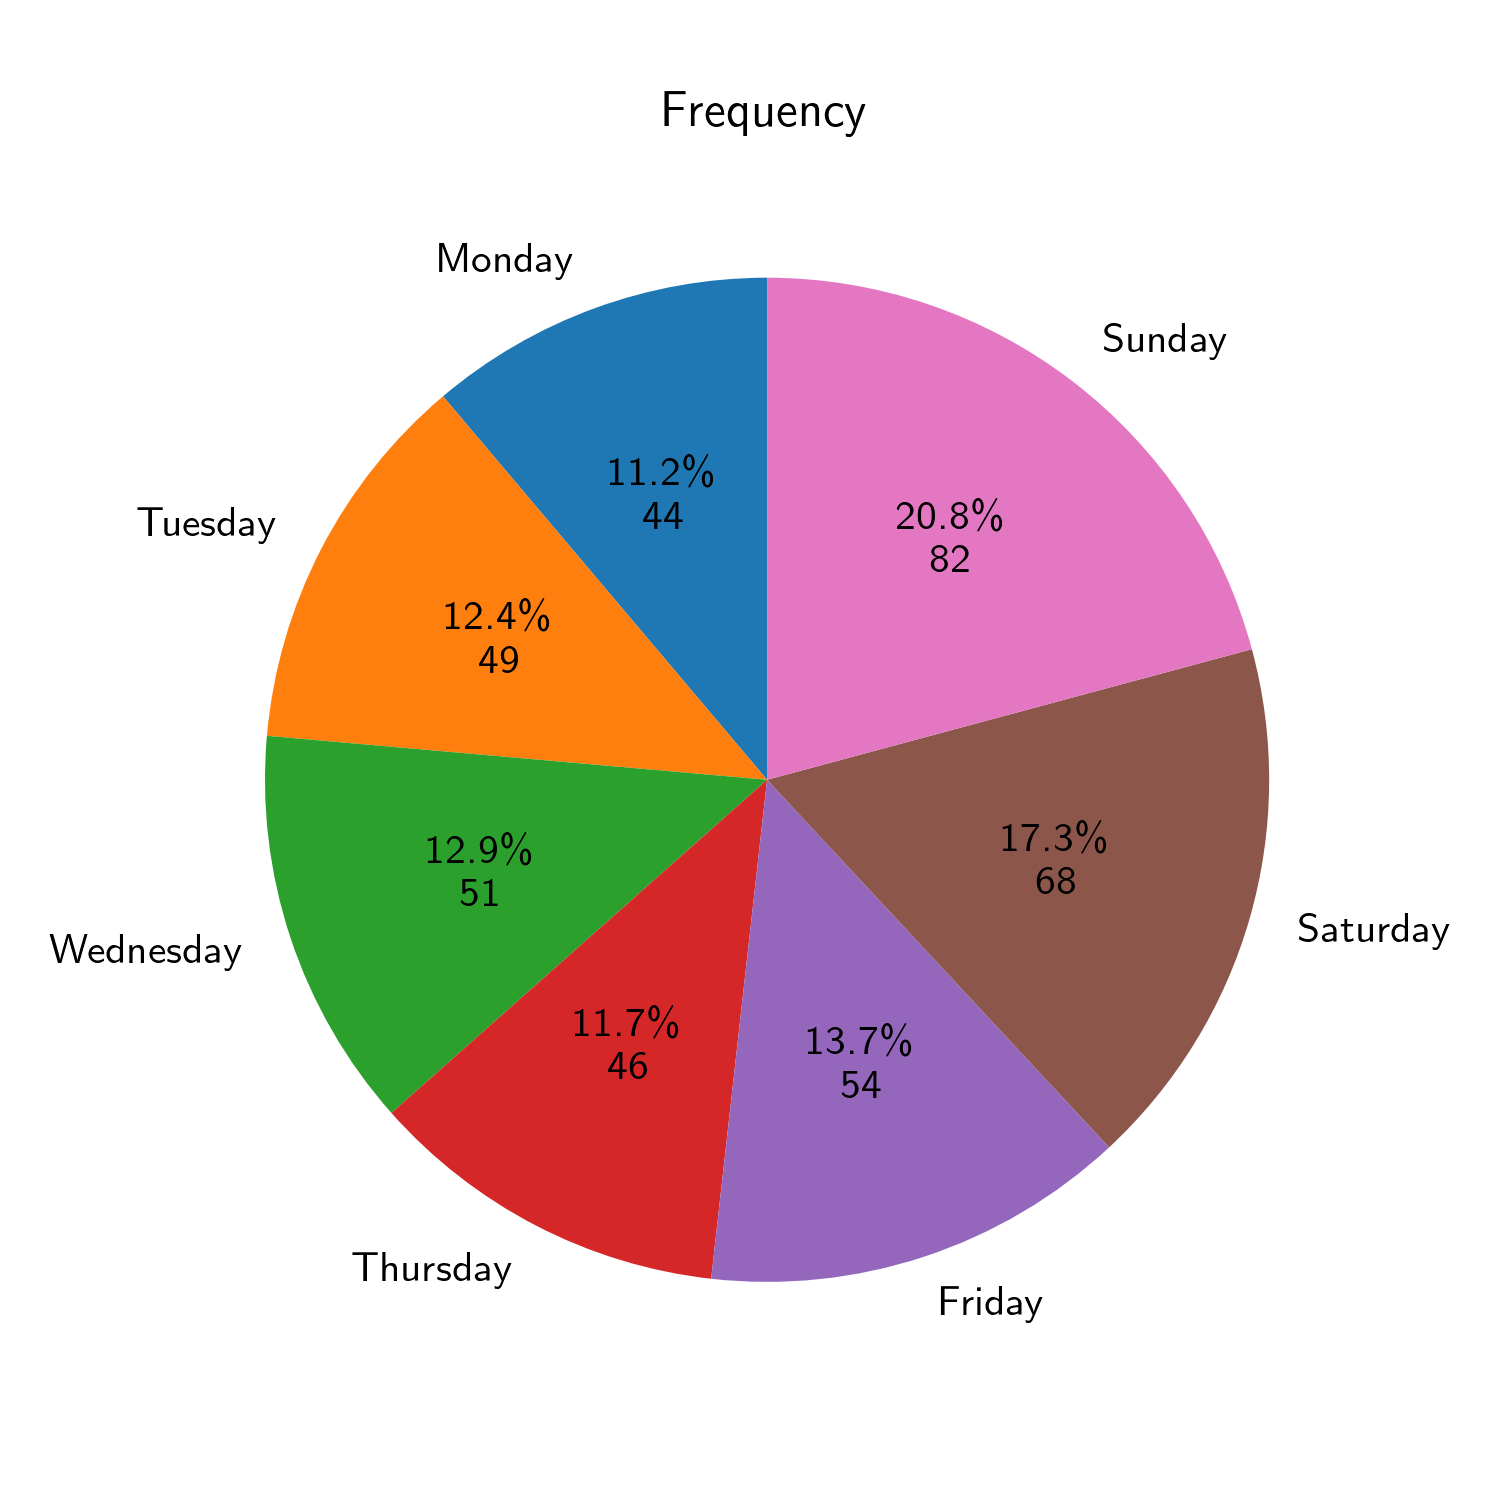
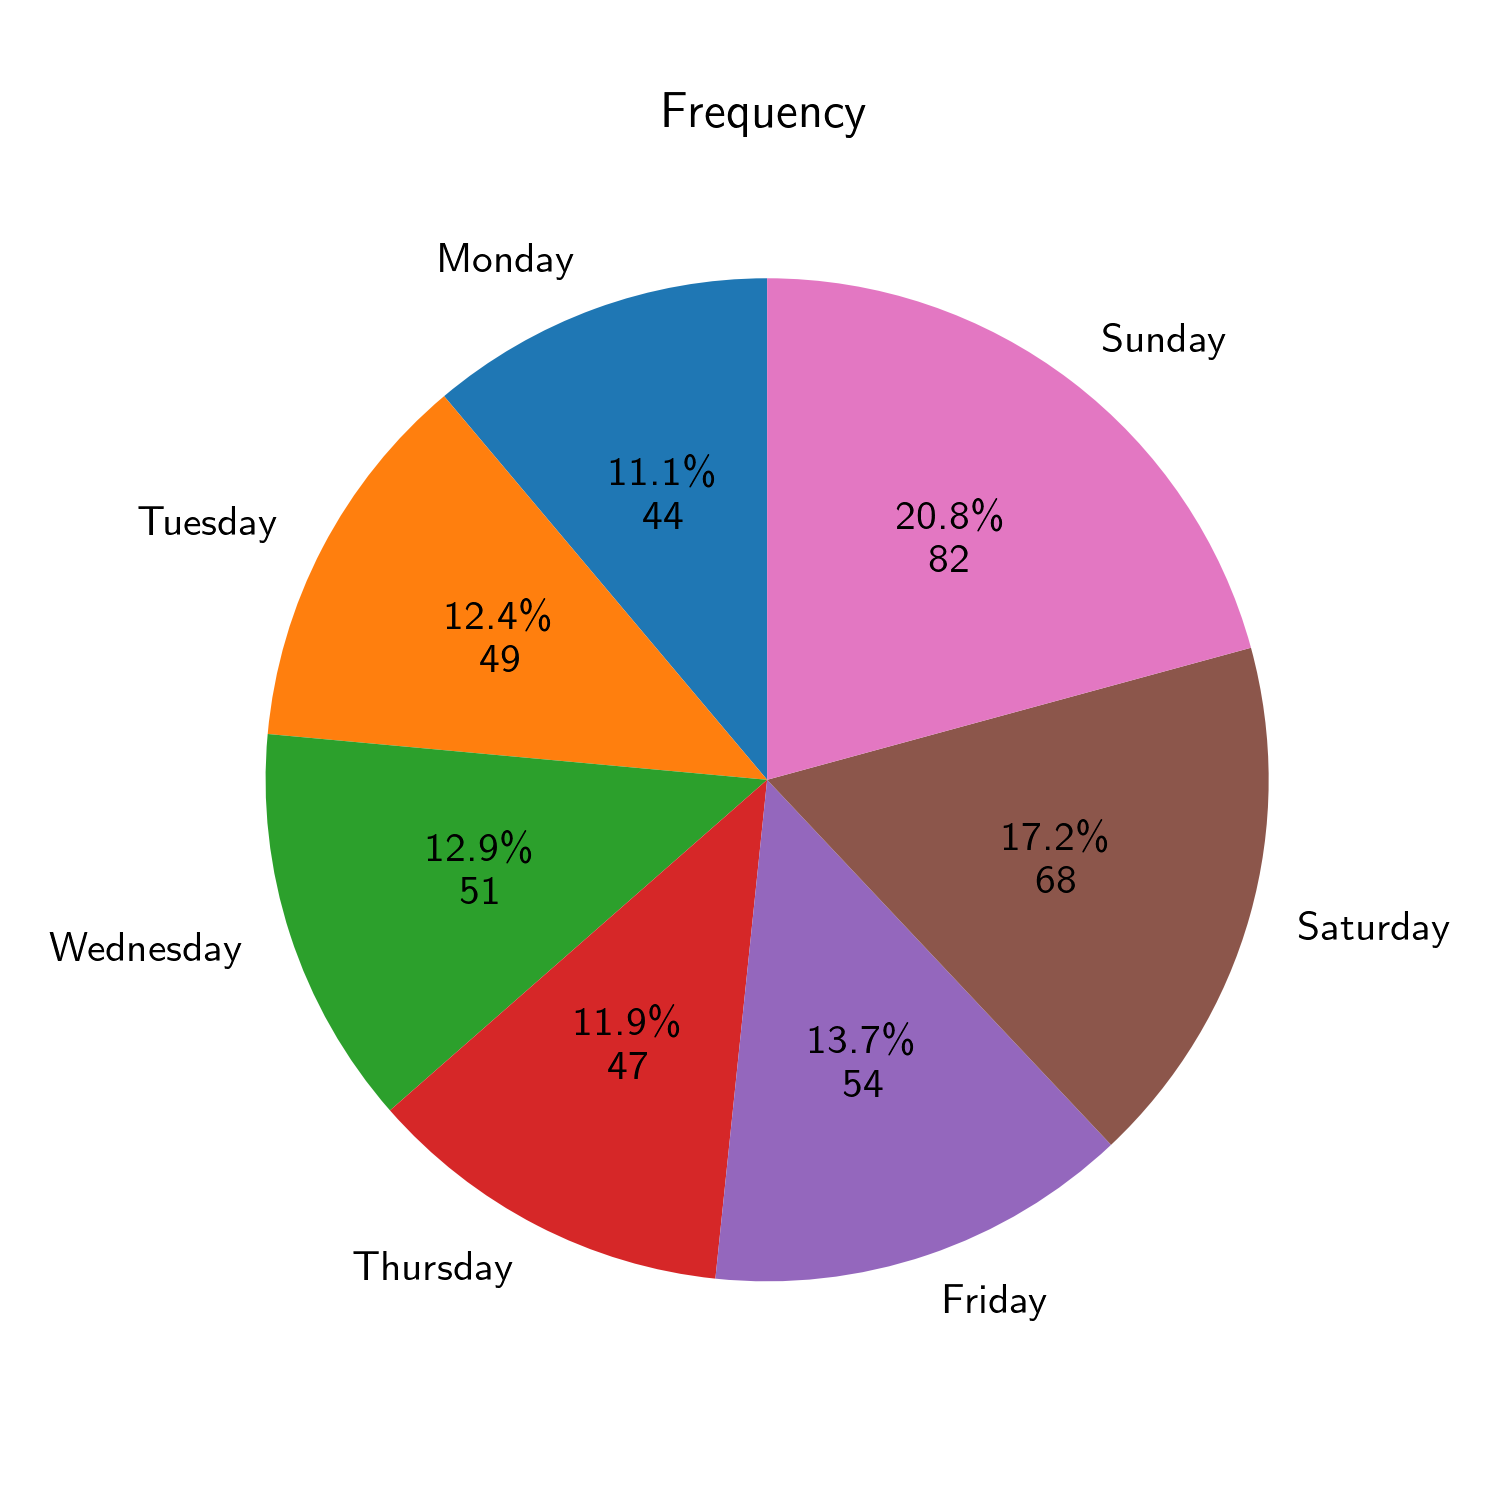
update data

diff --git a/README.md b/README.md
@@ -1,13 +1,13 @@
-last update: 28.09.2024, Saturday, time: 14:16  
+last update: 03.10.2024, Thursday, time: 18:12  
 # Overview  
 || Whole | Half |  
 |---|---|---|  
-|Total $/ \textup{€}$|190.598 $\pm$ 54.519|109.011 $\pm$ 31.199|  
-|Ratio $/ \frac{\textup{€}}{\textup{h}}$| 4.518 $\pm$  0.798| 5.132 $\pm$  1.110|  
-|Cash $/ \textup{€}$|64.097 $\pm$ 35.546|43.881 $\pm$ 20.917|  
-|Cash $/ \\% $|41.595 $\pm$  8.377|44.103 $\pm$  9.766|  
-|Card $/ \textup{€}$|91.296 $\pm$ 51.687|56.598 $\pm$ 28.195|  
-|Card $/ \\% $|58.405 $\pm$  8.377|55.897 $\pm$  9.766|  
+|Total $/ \textup{€}$|190.888 $\pm$ 54.560|109.011 $\pm$ 31.199|  
+|Ratio $/ \frac{\textup{€}}{\textup{h}}$| 4.516 $\pm$  0.796| 5.132 $\pm$  1.110|  
+|Cash $/ \textup{€}$|64.085 $\pm$ 35.464|43.881 $\pm$ 20.917|  
+|Cash $/ \\% $|41.500 $\pm$  8.452|44.103 $\pm$  9.766|  
+|Card $/ \textup{€}$|91.762 $\pm$ 52.018|56.598 $\pm$ 28.195|  
+|Card $/ \\% $|58.500 $\pm$  8.452|55.897 $\pm$  9.766|  
 # Frequency  
     
 ![Image](./png/frequency.png)  
@@ -55,8 +55,8 @@ last update: 28.09.2024, Saturday, time: 14:16
 ||Ratio $/ \frac{\textup{€}}{\textup{h}}$|  4.33 $\pm$  0.81|  4.96 $\pm$  1.07|  
 |Wednesday|Total $/ \textup{€}$|165.75 $\pm$ 29.98| 93.17 $\pm$ 20.39|  
 ||Ratio $/ \frac{\textup{€}}{\textup{h}}$|  4.53 $\pm$  0.76|  5.10 $\pm$  1.05|  
-|Thursday|Total $/ \textup{€}$|150.14 $\pm$ 41.33| 88.34 $\pm$ 18.21|  
-||Ratio $/ \frac{\textup{€}}{\textup{h}}$|  4.13 $\pm$  0.67|  4.77 $\pm$  0.96|  
+|Thursday|Total $/ \textup{€}$|153.83 $\pm$ 44.89| 88.34 $\pm$ 18.21|  
+||Ratio $/ \frac{\textup{€}}{\textup{h}}$|  4.12 $\pm$  0.66|  4.77 $\pm$  0.96|  
 |Friday|Total $/ \textup{€}$|191.53 $\pm$ 34.00|104.48 $\pm$ 25.23|  
 ||Ratio $/ \frac{\textup{€}}{\textup{h}}$|  4.37 $\pm$  0.73|  4.96 $\pm$  1.14|  
 |Saturday|Total $/ \textup{€}$|219.83 $\pm$ 42.00|116.06 $\pm$ 31.65|  
@@ -68,12 +68,12 @@ Special: Holidays and Weekends
 ## Whole day  
 ||Total $/ \textup{€}$|Ratio $/ \frac{\textup{€}}{\textup{h}}$|Count|  
 |---|---|---|---|  
-|All|190.60 $\pm$ 54.52|  4.52 $\pm$  0.80|215  
-|Normal|164.38 $\pm$ 38.42|  4.31 $\pm$  0.76|138  
+|All|190.89 $\pm$ 54.56|  4.52 $\pm$  0.80|216  
+|Normal|165.02 $\pm$ 39.01|  4.31 $\pm$  0.76|139  
 |Weekend|237.59 $\pm$ 47.05|  4.89 $\pm$  0.72|77  
-|Holiday|182.27 $\pm$ 54.25|  4.44 $\pm$  0.83|62  
-|Special|210.26 $\pm$ 58.66|  4.66 $\pm$  0.80|120  
-|Special \& friday|207.94 $\pm$ 55.57|  4.63 $\pm$  0.80|142  
+|Holiday|183.40 $\pm$ 54.54|  4.43 $\pm$  0.82|63  
+|Special|210.62 $\pm$ 58.54|  4.66 $\pm$  0.80|121  
+|Special \& friday|208.26 $\pm$ 55.51|  4.63 $\pm$  0.80|143  
     
 ![Image](./png/special_whole.png)  
 ## Half day  
